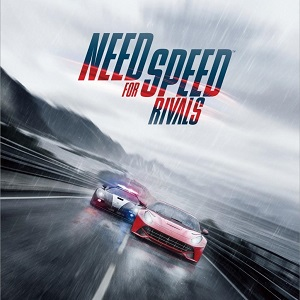
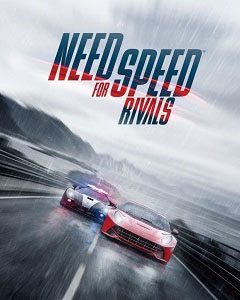
Test home page product

diff --git a/index.html b/index.html
@@ -74,13 +74,14 @@
     	<td valign="top" align="left" width="90%" >
         	<div class="maincontainer">
             
+            <!--------------Start product row------------------>
             <table width="100%" border="0" cellspacing="0" cellpadding="0">
             	<tr align="center">
                 	<td>
                     
                    		<table>
                         	<tr>
-                            	<td>Content Pic</td>
+                            	<td><img src="pics/Racing/nfs pic.jpg" /></td>
                             </tr> 
                             
                             <tr>
@@ -94,7 +95,7 @@
                     
                     	<table>
                         	<tr>
-                            	<td>Content Pic</td>
+                            	<td><img src="pics/Racing/nfs pic.jpg" /></td>
                             </tr> 
                             
                             <tr>
@@ -108,7 +109,7 @@
                     
                     	<table>
                         	<tr>
-                            	<td>Content Pic</td>
+                            	<td><img src="pics/Racing/nfs pic.jpg" /></td>
                             </tr> 
                             
                             <tr>
@@ -121,6 +122,8 @@
                 
                 
             </table>
+            <!--------------Stop product row------------------>
+            
             
             </div>
             
